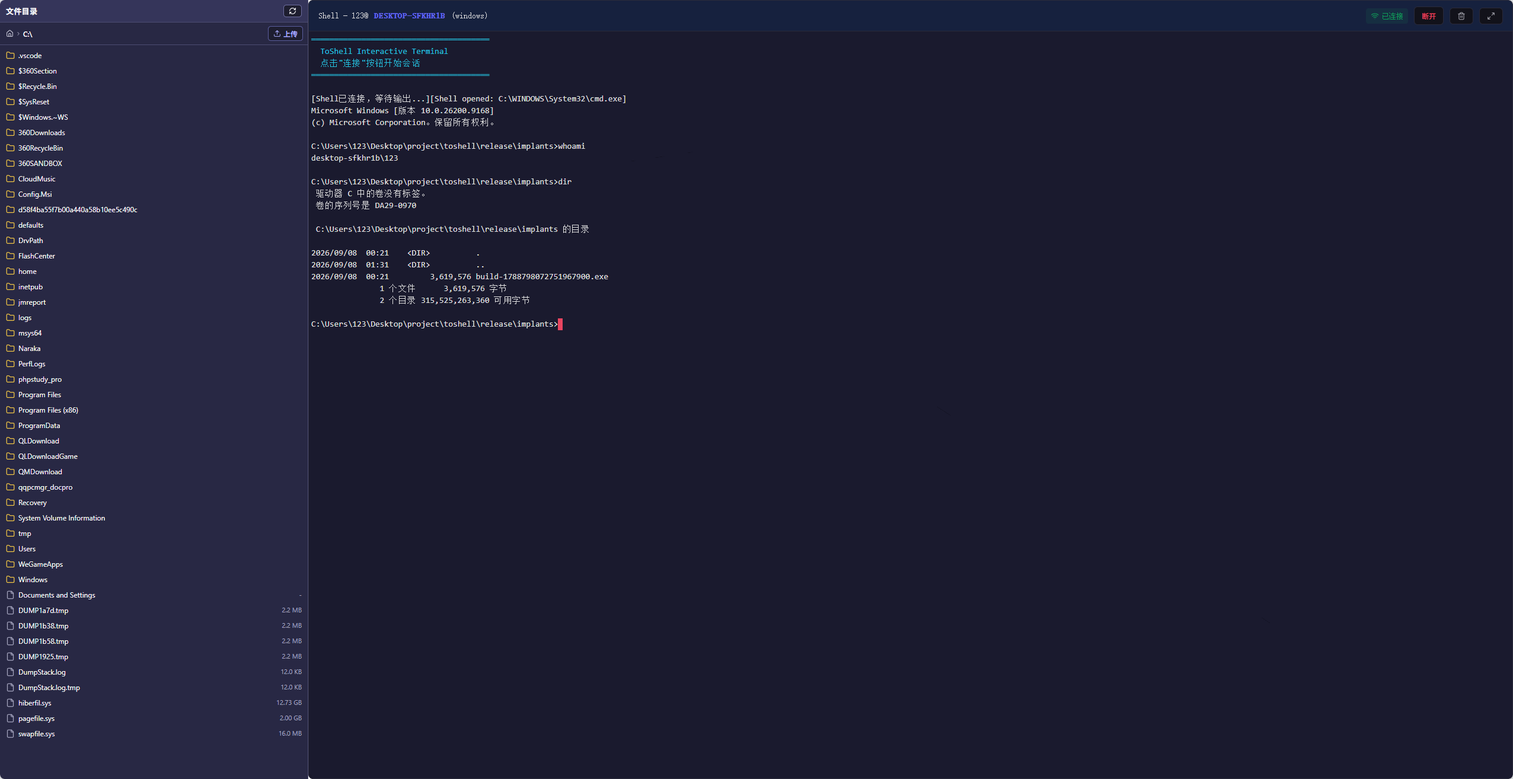
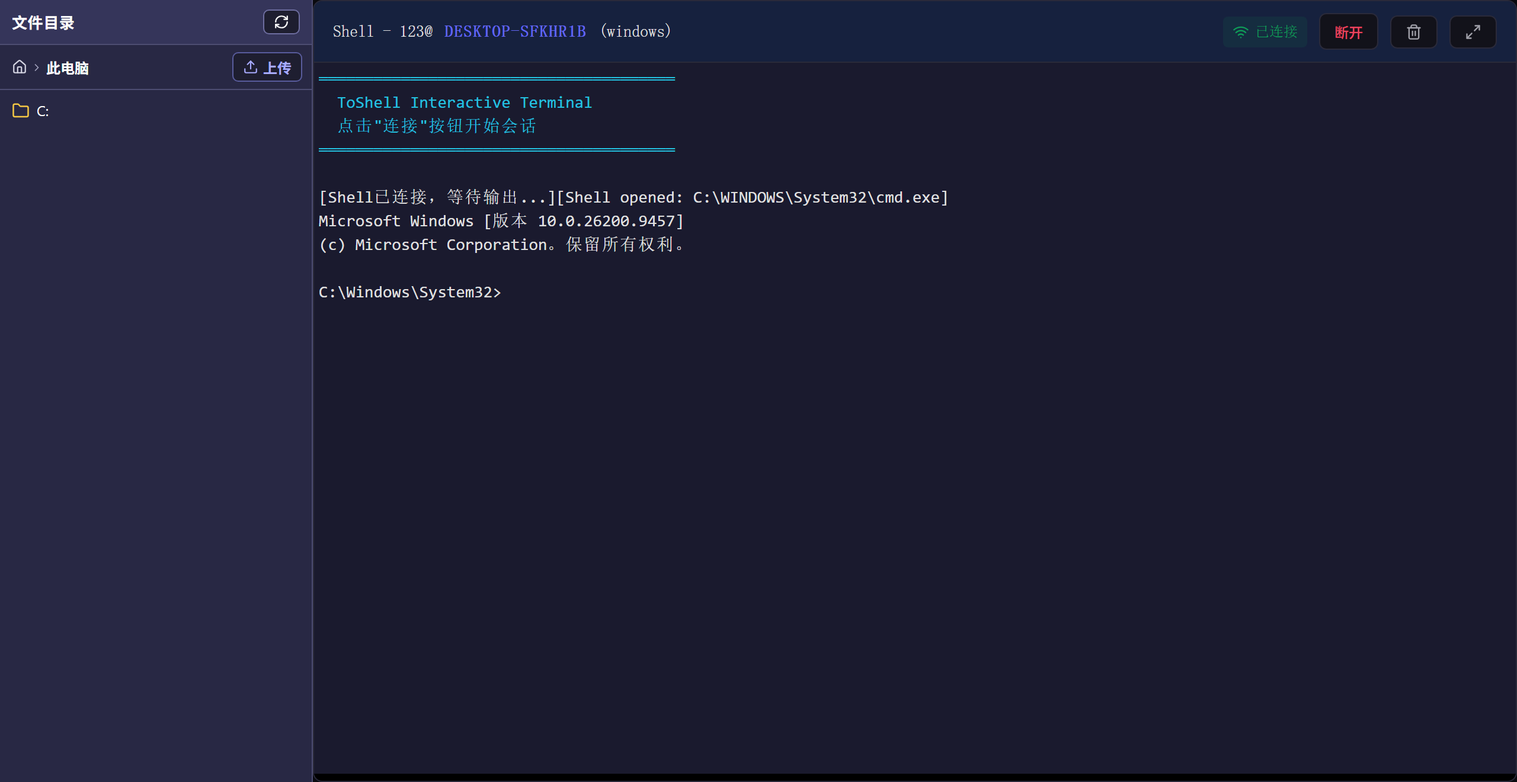
docs(readme): 更新到 v1.4.0 实际能力 + 12 张真机截图（含 light/full tab 对照验证）
README（255 → 386 行）
  - 新增 `## v1.4.0 重点变化与如实边界`：7 行能力表（对外入口 / 默认状态 / 关键边界）+ 未验证清单。
  - 新增 `### 植入端体积（v1.4.0 本机实测）`：light+tcp 2,946,805 / +execmodule 2,973,941(+27,136)
    / full+tcp 3,522,293(+575,488) / http 5,455,613 / ws 5,097,728 / mqtt 5,399,798
    → 结论"传输栈才是大头（+2.15~2.51 MB）> 全部功能 tag（+0.58 MB）"；nano ≤1.8 MB 在 Go 里做不到。
  - 新增 `### v1.4.0 新增 / 需要留意的配置段`（`mcp.*` / `avops.*` / `ws_path` + `ws_host_allowlist`）。
  - 核心特性补：**对外 MCP 协议服务**、Agent 长任务可靠性、`exec_module`、PE 资源注入、AV-Ops 分级、
    WS 探测面收敛、内存执行加固；「生成植入端」表 +2 行（PE 资源、exec_module 门控与边界）。
  - 修正过期表述：删掉 v1.3.5 时代的"标签收进「更多」下拉"（v1.4.0 已改成**能力驱动标签**）、
    修正 `文件无执行` 笔误、补流水线日志串（`section_normalize` / 有资源时多一步 `pe_resource_patch`）。
  - **一处口径纠正（实现方指出、我已按源码核对）**：任务书说的 `/api/v1/mcp/*` 与源码不符 ——
    `/api/v1/mcp/tools[/{name}]` 是内置 AI/脚本的管理端点，**对外 MCP 协议是独立监听
    `mcp.bind`（默认 127.0.0.1:18082）+ `POST /mcp`**（`handlers_mcp.go:73` 的原话也这么写），
    README 按源码写准确口径。

截图（docs/screenshots/ 7 → 12 张，全部真机截出，统一 2560×1320 PNG）
  替换：dashboard / sessions / shell / files / memexec / avidentify / copilot；
  新增：login / session-detail / session-detail-light / avops / builder。
  方式：本地沙箱服务端（现构建 `-tags webui`）+ **真实表单登录**（非注入 token）+ 无头 Edge/CDP；
  files 需展开 C: 目录树、builder 需点「生成载荷」开弹窗再展开「PE 版本资源」分组。
  自检：12 张全部是合法 PNG 且尺寸一致（我读了 IHDR 逐个核对），README/docs 里**无** `sk-` 等密钥残留。

顺带完成的功能验证（会话页 tab 数据驱动，light vs full）
  full = **14** tab：信息|文件|进程|注入|Shell|插件|持久化|截图|凭据|杀软|对抗分级|内存|屏幕流|中继
  light = **6** tab：信息|文件|进程|Shell|杀软|对抗分级
[…]

diff --git a/README.md b/README.md
@@ -32,10 +32,12 @@ ToShell 是一个轻量 C2 框架，由 **服务端（Team Server）+ Web 控制
 **多通道 · 多平台植入端**
 - 回连通道：**TCP / HTTP(S) / WebSocket / MQTT**（可配合域前置、TLS 拟态）。
 - 植入端：**Windows / Linux / macOS**，格式 `exe / dll / raw / shellcode（hex 文本）/ shellcode_bin（原始字节）`，支持 `full / light` 档案与老系统兼容（Go 1.20 工具链）。
+- **体积与能力解耦（v1.4.0）**：`light` 载荷 + **`exec_module` 内存模块按需加载** —— 载荷保持最小，
+  注入 / EDR / 凭据等能力经加密 C2 下发到内存执行，模块还能在服务端更新而不必重编载荷（见下方体积实测）。
 
 **全功能会话操作**
 - 交互 Shell、目录/文件管理（上传/下载/删除/预览，断点续传）、进程枚举/注入/杀死。
-- 截图、实时屏幕流、凭据收集、UAC 提权、持久化、文件无执行、BOF/DLL/EXE 插件。
+- 截图、实时屏幕流、凭据收集、UAC 提权、持久化、无文件执行（`exe_mem` / `dll` / BOF）、插件。
 
 **组网与隧道**
 - Beacon Mesh 多跳中继、SOCKS5 隧道代理（横向访问内网）、中继链路加密。
@@ -44,6 +46,17 @@ ToShell 是一个轻量 C2 框架，由 **服务端（Team Server）+ Web 控制
 - 任务流/剧本化执行（可编辑模板，跑完自动 AI 复盘）。
 - **AI 副驾驶**：联网搜索、远程下载工具、按用途插件/内存加载、结果分析与下一步建议；支持**权限审批**（影响会话的操作需确认）。
 - **自主 Agent**：异步自主执行（不阻塞对话）、SSE 流式思考可见、连续上下文记忆、自主提权/横向闭环、失败自动恢复、只输出结论与建议。
+- **长任务可靠性（v1.4.0）**：任务等待改为**事件驱动**（不再 sleep 轮询；进程重启会对账 `agent_runs` 与 `tasks`）；
+  长结果**外置成句柄**并用 `result_read` 分页回读（**不再静默截断**）；上下文按**常驻/任务/工作/历史四层**装配 +
+  `max_context_tokens`/`max_run_tokens` **双预算**（超预算先压缩后停止并写明 `stop_reason`）；SSE 支持 `Last-Event-ID`
+  **断点续传**，事件缺口用 `resync` 显式告知而不是悄悄丢。
+
+**开放的自动化接口（v1.4.0）**
+- **对外 MCP 协议服务**：把内置 AI 的同一张工具表按 MCP 协议开放给外部 Agent —— 独立监听 `mcp.bind`
+  （默认 `127.0.0.1:18082`，端点 `POST /mcp`）。**默认关闭**；即使打开也**只绑回环 + 必须有 token**
+  （空 token 拒绝启动），并带来源网段 / Origin / RPM / 并发 / 未读句柄数上限，审计落 JSONL。
+  工具注册表 **38 个**（37 个工具 + 回读元工具 `result_read`），按 **read 13 / confirm 14 / danger 11** 三档分级，
+  `allowed_tools` 留空时**只放行只读**；同一份清单也由 `GET /api/v1/mcp/tools` 提供给脚本与内置 AI（三处同源）。
 
 **免杀与隐蔽**（本项目把三类东西分开说，避免误解）
 - **落地（delivery）—— 对付"未签名 PE 被拒绝执行"**：构建后 **Authenticode 代码签名**
@@ -60,18 +73,66 @@ ToShell 是一个轻量 C2 框架，由 **服务端（Team Server）+ Web 控制
 - **静态降特征 —— 只影响文件特征，不影响"能不能跑"**：编译期字符串混淆（仓库原有）、
   pclntab 高信号标识符中性化、**BOF 按需编译**（默认载荷不含 `Beacon*`）、
   **Go 构建期指纹擦除**（buildinfo 魔数 / 构建 ID）、每构建随机化（配置块魔数/密钥/API 哈希种子）、
-  `evasion_scan` 默认关（不再枚举进程找杀软）、garble / UPX 可选、`light` 裁剪。
+  `evasion_scan` 默认关（不再枚举进程找杀软）、garble / UPX 可选、`light` 裁剪。v1.4.0 追加
+  **PE 版本资源 / 图标 / 公司信息 / 时间戳**（写 `RT_VERSION` + `RT_ICON`，**默认不注入**，见下方构建选项）
+  与 **PE 节名/节熵规范化**（默认执行，只做减法）。
   ⚠ 这一列**不会**让载荷在装有 360/电脑管家的主机上"跑起来"。
+- **杀软对抗能力分级 AV-Ops（v1.4.0）**：把"对抗动作"按 **L0 侦察 / L1 用户态温和 / L2 强 / L3 BYOVD /
+  L4 检测面抑制** 分级，每个动作都带"等级 + 植入端任务类型 + 必需能力位"，并逐动作回显**当前配置下能不能下发
+  与中文原因**（排障先看 `GET /sessions/{id}/av-ops`，而不是"试一下"）。**L0 默认开、L1 默认开但必须二次确认、
+  L2+ 出厂一律关闭**（fail-closed：未知动作/未知等级一律拒绝；请求里的 `tier` 只做一致性核对，不能用 `tier=L0` 绕过开关）；
+  破坏性任务**禁止服务端自动重投递**（重发会分配新 task_id，且界面明确告知"不可回滚"）。
+  **Agent / MCP 工具面不暴露任何 L1+ 动作**（注册表扫描 + 源码扫描两条守卫钉住）。
 
 **Web 控制台**
 - 统一的深/浅色主题与组件层（卡片/分组/徽标/提示条/空态/骨架屏），键盘焦点可见；侧栏折叠记忆、窄屏浮层。
 - 生成载荷页把 30 多个选项收进可折叠分组，一键上线命令支持**分组筛选 / 搜索 / 复制全部**并标注**风险等级**，结果面板直接给出**载荷 ID（一键复制）**、**签名结论**与**落地建议**；加载器链命令可用「填入载荷 ID」把占位符替换成真实 ID。
-- 顶栏状态是**真实探测**服务端 `/api/v1/health`（20s 一次 + 窗口聚焦时触发），不是写死的"在线"；会话详情把不常用的标签收进「更多」下拉，避免标签栏挤压。
+- 顶栏状态是**真实探测**服务端 `/api/v1/health`（20s 一次 + 窗口聚焦时触发），不是写死的"在线"。
+- **会话详情的标签是"载荷能力驱动"的（v1.4.0）**：标签集合不再写死，而是由 `GET /sessions/{id}/capabilities`
+  决定 —— 能力位由载荷**上报**（老载荷按操作系统兜底并标注 `source: reported|os_fallback`），
+  所以 `light` 载荷只出现 6 个标签、`full` 出现 14 个，**不会给未编译进载荷的能力造"点了没反应"的假面板**；
+  能力清单取不到时**不静默**，会显式提示"能力清单不可用，已显示全部面板"。标签条数量多时单行横向滚动（选中项自动滚入可见区）、
+  支持 ←/→/Home/End 键盘导航。
+- 会话详情新增**「对抗分级」面板**：按等级分组列出动作、逐条显示服务端给的中文原因，破坏性动作走二次确认弹层
+  （展示服务端 `impact` 原文、"服务端不会自动重投递"与"不可回滚"）；L4 当前无落地动作时按钮数为 0，不造假入口。
 
 **加密通信**
 - 控制帧 AES-256-GCM 认证加密 + 隧道数据 SM4-GCM（国密自研），密钥域分离；配置热更新。
 
+## v1.4.0 重点变化与如实边界
+
+本版主线是「把 C2 从"能用"推到"能长期稳定用"」。逐条实现细节与实测数据见 [CHANGELOG.md](CHANGELOG.md) 的 v1.4.0 段，这里只收口**对外入口 / 默认状态 / 关键边界**：
+
+| 变化 | 对外入口 | 默认 | 关键边界 |
+|---|---|---|---|
+| 对外 **MCP 协议服务** | `mcp.*`（默认 `127.0.0.1:18082`，端点 `POST /mcp`） | **关闭** | 打开也只绑回环 + 必须有 token；38 个工具分 3 档，默认只放行只读 |
+| **Agent 长任务可靠性** | Copilot 页 / Agent API | 开 | 长结果外置 → `result_read` 回读；SSE 断点续传；超预算先压缩后停止 |
+| **`exec_module` 内存模块** | `POST` / `GET /api/v1/sessions/{id}/module` | **关闭**（需 `-tags execmodule` 构建载荷） | ABI v1 + 一次性 token + 9 步校验链；单帧上限 4 MiB（未做分块） |
+| **PE 资源注入** | 生成载荷页「PE 版本资源与图标」/ `resource_*` | **不注入** | 只吃**服务端本地** `.ico`；写在 UPX 与签名**之前**；C 植入端未接入 |
+| **杀软对抗分级 AV-Ops** | `GET/POST /api/v1/av-ops`、`GET/POST /api/v1/sessions/{id}/av-ops`、详情页「对抗分级」 | L0 开 / L1 需确认 / **L2+ 关** | L2/L3/L4 **未上真机执行**；L4 无落地动作 |
+| **WebSocket 探测面收敛** | `listener.ws_path` / `listener.ws_host_allowlist` | 现役 `/`、名单空 | 只有这一条路径能升级；改 `ws_path` **必须同步改植入端 `server_url`** |
+| **内存执行加固** | 无文件执行（`exe_mem` / `dll`） | 开 | 在 **IAT 层**把 `ExitProcess` / `RtlExitUserProcess` 等退出调用改写成原生 `ExitThread` 桩 —— 被映射程序退出**不再带走宿主**（会话不掉线）；只覆盖 IAT 间接调用，且**无控制台启动时捕获不到 stdout**（结果里写明原因） |
+
+> ⚠ **本版未验证 / 未落地（如实写，别当成已完成）**
+> - **真实证书签名仍未落地**：签名链路只有**自签证书**的本机实测，**没有**公信 CA / EV 证书与目标机信任链验证。
+>   不配证书时产物依旧是未签名 PE —— 在装 360 / 电脑管家的主机上会在**进程创建阶段**被拒。
+> - **真实 CDN 域前置未验证**：域前置、`wss` 真实证书链、uTLS/JA3 指纹、WS 拟态反代、HTTP/2 **都没做真机联调**
+>   （WS 仍是 Go 标准库 TLS）。
+> - **AV-Ops 的 L2 / L3 / L4 从未在真机上执行过**（默认关闭，L3 还需要操作员自备驱动）。真机验证过的只有
+>   L0 `av_detect` 的下发回传，以及各档"被拒"路径与"被拒的动作不产生任何任务"。
+> - **`exec_module` 只在 TCP 通道真机跑过**（HTTP/WS/MQTT 下行已接线但未真机验证）；模块**未**暴露给 MCP / Agent 工具面。
+> - **无控制台启动时捕获不到 stdout**：内存执行加固靠 std 句柄截流，宿主没有有效 std 句柄时结果里会写明原因，而不是给空串。
+> - **`nano ≤ 1.8 MB` 的 Go 植入端做不到**：Go runtime + 最小传输栈的地板就在 2.8 MB 附近，见下方[体积实测](#植入端体积v140-本机实测)。
+
 ## 功能部分截图
+
+> 下面 12 张图全部来自**本机沙箱实测**（用 v1.4.0 工作区的服务端源码带 `-tags webui` 现构建，接了
+> 两个**真实回连的会话**：一个 `light`、一个 `full`），不是设计稿或占位图；沙箱用的是临时生成的口令与自签 JWT，
+> **截图里不出现任何真实密码 / API Key**。
+
+**登录页**：控制台入口，可与 Basic 认证前置门槛、隐蔽入口（`/__gate`）配合防资产测绘收录。
+
+<img src="docs/screenshots/login.png" width="100%" alt="登录页">
 
 **仪表盘**：会话/任务概览、图表与实时状态。
 
@@ -81,25 +142,41 @@ ToShell 是一个轻量 C2 框架，由 **服务端（Team Server）+ Web 控制
 
 <img src="docs/screenshots/sessions.png" width="100%" alt="会话管理">
 
+**会话详情**：标签条由**载荷上报的能力位**决定 —— 这台是 `full` 载荷（14 个标签），`light` 载荷只显示 6 个。
+
+<img src="docs/screenshots/session-detail.png" width="100%" alt="会话详情">
+
+**会话详情（`light` 载荷）**：同一台机器上的 `light` 会话只有 6 个标签 —— 未编译进载荷的能力**不会**显示成空面板。
+
+<img src="docs/screenshots/session-detail-light.png" width="100%" alt="会话详情（light 载荷）">
+
 **交互式shell**：动态交互式shell独立标签页面。
 
-<img src="docs/screenshots/shell.png" width="100%" alt="会话管理">
-
-**AI 副驾驶**：联网分析、工具调用与权限审批。
-
-<img src="docs/screenshots/copilot.png" width="100%" alt="AI 副驾驶">
+<img src="docs/screenshots/shell.png" width="100%" alt="交互式 Shell">
 
 **文件管理**：上传 / 下载 / 在线预览，断点续传。
 
 <img src="docs/screenshots/files.png" width="100%" alt="文件管理">
 
-**内存执行**：免落地加载 DLL / EXE / BOF 与内存操作。
+**内存执行**：免落地加载 DLL / EXE / BOF（`exe_mem` / `dll` 已加固：被映射程序退出不再带走宿主）。
 
 <img src="docs/screenshots/memexec.png" width="100%" alt="内存执行">
 
 **杀软识别**：检测目标环境杀软 / 安全监控进程，辅助规避。
 
 <img src="docs/screenshots/avidentify.png" width="100%" alt="杀软识别">
+
+**对抗分级（AV-Ops）**：按 L0~L4 列出动作与「当前能不能下发」的中文原因，破坏性动作二次确认。
+
+<img src="docs/screenshots/avops.png" width="100%" alt="对抗分级">
+
+**AI 副驾驶**：真实模型对话（沙箱里两个真实会话，含 `session_list` / `session_context` 工具调用轨迹与下一步建议）。
+
+<img src="docs/screenshots/copilot.png" width="100%" alt="AI 副驾驶">
+
+**生成载荷 · PE 版本资源**：图标 / 版本信息 / 时间戳（可选，默认不注入），与代码签名、UPX 的先后顺序在页面上写明。
+
+<img src="docs/screenshots/builder.png" width="100%" alt="生成载荷 · PE 版本资源">
 
 ## 使用前准备
 
@@ -199,11 +276,36 @@ go build -tags webui -ldflags "-s -w" -o toserver ./cmd/server
 | 启动随机延迟 | 服务端配置（默认 2~10s） | 载荷启动后随机休眠 [最小,最大] 秒再首次回连；**生成载荷页留空即跟随服务端**（填了才覆盖。注意 0 = "未设置"，仍回退配置值，不是"不延迟"） |
 | 回连节奏：心跳间隔 / 抖动 / 重试 | 服务端配置（`implant.interval` / `jitter` / `retry_wait`） | **生成载荷页这些输入框默认留空**，留空 = 跟随「设置 → 植入端默认参数」，placeholder 直接显示服务端当前生效值；只有确实要覆盖时才填。未配置时回退 60s / ±20% / 5s |
 | 主动反沙箱进程检测 | **关** | 开启（`evasion_scan`）会枚举全系统进程并与一批杀软/分析工具进程名比对后延迟执行 —— **这正是 360/火绒/电脑管家主动防御拦截的对抗行为**，只在明确需要时开 |
+| **PE 版本资源 / 图标 / 公司信息 / 时间戳** | **不注入** | **v1.4.0 新增**：往 `.rsrc` 写 `RT_VERSION`（公司名/产品名/文件描述/版本/版权/原始文件名/内部名）+ `RT_ICON(3)`/`RT_GROUP_ICON(14)`，并可覆盖 COFF `TimeDateStamp`（`keep`/`fixed`/`random`）。只吃**服务端本地** `.ico` 路径（**不接受客户端上传字节**）；写入位置 `pe_resource_patch` 固定在**指纹擦除之后、UPX 与签名之前**（资源在 UPX 之后补会改坏压缩结果，签名之后再动一个字节就是白签）。一键预设 `resource_preset=neutral` 只填**你没显式给**的字段，且**明确不预置"像系统组件"的外观**；预设名拼错**直接构建报错**而不是静默产出无资源文件。只对 Windows `exe` / `bin` / `dll` 生效，C 植入端（mingw）**未接入** |
+| **内存模块 `exec_module`** | **关** | **v1.4.0 新增**：勾选后服务端以 **`-tags execmodule`** 编译载荷（不带该 tag 的载荷收到模块任务会明确回"`exec_module` 未包含在本次构建中"，而不是 `Unknown task type`）。与档案无关 —— **`light` + `execmodule` 是推荐组合**：载荷保持最小，功能模块经加密 C2 下发到内存执行、且可在服务端更新而不必重编载荷。模块格式硬约束：**只接受原生 PE（C + `-nostdlib`）**，Go/CLR/带 TLS 目录的一律硬拒（宿主是反射映射，第二个 Go runtime 会互踩） |
 | Garble 混淆 / UPX | 关 | 未安装对应工具时界面上如实显示"不可用 + 原因"。注意：**签名后再 UPX/改资源会让签名失效** |
 
 > **默认载荷里已经没有这些高信号明文**（实测）：`beacon*`（BOF 按需编译）、`loadShellcode`/`memexe_windows.go` 等（pclntab 中性化）、`\xff Go buildinf:` 与 `Go build ID:`（构建期指纹擦除）、杀软进程名（字符串混淆 + 默认不枚举进程）。
 
-> **如何确认参数真的生效**：服务端日志有 `rendering implant: … interval=… jitter=… startup_delay=… evasion_scan=… profile=…`、`compiling implant: … tags="…"`、`代码签名成功（…）` 与 `go fingerprint scrubbed: …`，这是唯一可信的"真正烘焙进载荷的值"。
+> **如何确认参数真的生效**：服务端日志有 `rendering implant: … interval=… jitter=… startup_delay=… evasion_scan=… profile=…`、`compiling implant: … tags="…"`、`交付流水线（字节加工顺序，签名必须是最后一步）：scrub_fingerprint → scrub_version_string → section_normalize …`（开了资源注入会在 UPX/签名之前多一步 `pe_resource_patch`）、`代码签名成功（…）` 与 `go fingerprint scrubbed: …`，这是唯一可信的"真正烘焙进载荷的值"。
+
+### 植入端体积（v1.4.0 本机实测）
+
+口径：**windows / 386、`exe`、go1.20.14、不启用 garble / UPX / BOF / evasionscan**，本次用构建器逐档直接构建实测（与 `scripts/pe_footprint.ps1` 同一套口径）：
+
+| 档位 | 体积 | 相对 `light`+tcp |
+|---|---|---|
+| `light` + tcp | **2,946,805 B**（≈2.81 MB） | — |
+| `light` + tcp + `execmodule` | 2,973,941 B | **+27,136 B**（这门控的代价） |
+| `full` + tcp | **3,522,293 B**（≈3.36 MB） | **+575,488 B**（全部可选功能 tag 之和） |
+| `light` + http | 5,455,613 B（≈5.20 MB） | +2,508,808 B |
+| `light` + websocket | 5,097,728 B（≈4.86 MB） | +2,150,923 B |
+| `light` + mqtt | 5,399,798 B（≈5.15 MB） | +2,452,993 B |
+
+**结论（如实）**：
+- 体积大头是**传输栈**（http / websocket / mqtt 相对 tcp 各 **+2.15~2.51 MB**），而**全部功能 tag 加起来只有 +0.58 MB**。
+  所以 `exec_module` 买到的是"**最小载荷按需拿到全功能 + 模块可服务端更新**"，**不是**把 2.8 MB 压到很小；真正省体积的第一选择是**留在 tcp 档**。
+- **"nano ≤1.8 MB 的 Go 植入端"在当前架构下做不到**：Go runtime + 最小 TCP 传输栈的地板就在 **2.8 MB 附近**，
+  再往下要动的是"不用 Go"或者"把传输栈也模块化"（后者已被否决：模块化传输栈会让最常用的回连路径多一次下发与失败面）。
+  这条如实写在这里，避免把"体积分档"误解成"能做到 1 MB 级"。
+
+> 注：[CHANGELOG.md](CHANGELOG.md) 的 S4 段记的是**同一迭代早期**的数字（light/tcp 2,895,605、full 3,469,045），
+> 比上表各小约 50 KB —— 上表是**当前工作区代码**的实测，其后阶段（内存执行加固等）新增的代码也已计入。
 
 > ⚠ **必须知道的边界**：在装有 360/电脑管家等国产安全软件的主机上，**未签名的 PE 会在进程创建阶段被直接拒绝执行并删除文件**（实测：连一个只有 `time.Sleep` 的 Hello-World Go 程序也被拒，而微软签名的 `notepad.exe` 副本可正常执行）。这属于"签名/信誉/策略"拦截，**改载荷代码无用**。v1.3.5 给出的解法是：
 > 1. **签名**：配好证书后勾选「代码签名」重新构建（自签名证书还需导入目标机「受信任的根证书颁发机构」，否则状态是"已签名但链不受信任"，仍可能被拦）；
@@ -213,6 +315,35 @@ go build -tags webui -ldflags "-s -w" -o toserver ./cmd/server
 ## 配置
 
 复制 `configs/server.yaml.example` → 修改 `public_host / api_keys / jwt_key / encryption_key / admin_password`；更多字段说明见 [USAGE.md](USAGE.md)。设置页可热更新多数配置（无需重启）。
+
+### v1.4.0 新增 / 需要留意的配置段
+
+```yaml
+mcp:                              # 对外 MCP 协议服务（**默认整段关闭**）
+    enabled: false                # 打开后也只绑回环；token 为空则拒绝启动（不允许无鉴权裸奔）
+    bind: 127.0.0.1:18082         # 端点 POST /mcp，不要设成 0.0.0.0 除非你清楚风险
+    token: ""                     # Bearer / X-MCP-Token；设置页里 token 只写不回显（空串=保持，clear=清空）
+    allowed_tools: []             # 留空 = 只放行只读工具（注册表 read 档 13 个）；写工具名才逐项放行
+    allow_cidrs: []               # 来源网段白名单（不读 X-Forwarded-For，避免伪造绕过）
+    max_rpm: 120                  # 每 token 每分钟上限
+    inline_limit: 8192            # 结果内联上限（字节），超出落盘成句柄，用 result_read 分页回读
+    result_dir: ./data/mcp-results
+    result_ttl: 24h
+    audit_path: ./logs/mcp-audit.jsonl
+avops:                            # 杀软对抗能力分级（**出厂 fail-closed**）
+    allow_l2: false               # L2 强：结束安全软件 / 进程
+    allow_l3: false               # L3 BYOVD / PPL 清除（驱动仍由操作员自备，项目不内置）
+    allow_l4: false               # L4 检测面抑制（当前无落地动作，打开也不会放行任何动作）
+    require_confirm: true         # 需确认的动作必须带 confirm=true（**指针语义**：没配也按 true）
+    default_timeout_sec: 120      # 服务端看门狗超时
+    max_timeout_sec: 600          # 超上限直接 400 拒绝，不截断
+listener:
+    ws_path: /                    # WS **只对这一条路径**升级；改它必须同步改植入端 server_url
+    ws_host_allowlist: []         # 空 = 不检查；非空时非名单 Host 直接 404 不升级（可配合 front_domain）
+```
+
+> 会话能力位（`GET /api/v1/sessions/{id}/capabilities` 与详情页标签）来自**载荷上报**，服务端只对老载荷按
+> 操作系统兜底并标注 `source: reported|os_fallback`；`exec_module` 由载荷编译 tag 决定，**不是**配置项。
 
 ## 发版前自检
 
@@ -242,7 +373,7 @@ pwsh -NoProfile -ExecutionPolicy Bypass -File scripts/e2e_smoke.ps1
 ## 开源与授权
 
 - 使用说明：[USAGE.md](USAGE.md)
-- 后续优化路线：[ROADMAP.md](ROADMAP.md)（驱动能力分档与加载前自检、内存执行加固、屏幕流跨平台、动态查杀收敛、平台工具库与远程加载）
+- 后续优化路线：[ROADMAP.md](ROADMAP.md)（驱动能力分档与加载前自检、内存执行加固、屏幕流跨平台、动态查杀收敛、平台工具库与远程加载）—— 其中**内存执行加固的 IAT 部分已在 v1.4.0 落地**，原计划的 inline hook 仍未做（风险大于收益，见 CHANGELOG 说明）。
 - 安全披露：[SECURITY.md](SECURITY.md)
 - 一键部署：[release/install.ps1](release/install.ps1) / [release/install.sh](release/install.sh)（发布包内自带，环境检测 + 按需在线安装 + 直接启动）
 - License：**[MIT](LICENSE)**（Copyright © 2026 iQingshan 与 ToShell 贡献者）
